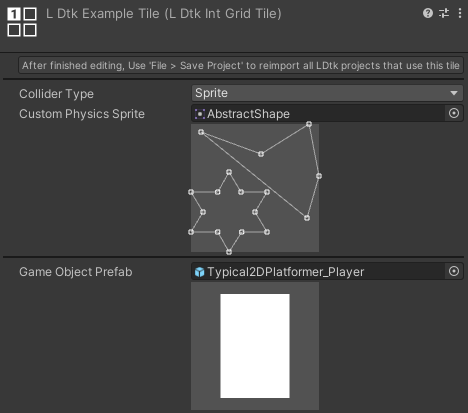
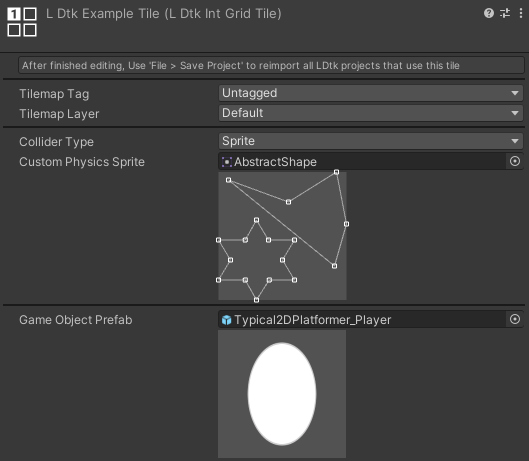
docs for new tag and layer field

Changed region(s): [[0.0, 0.1162, 0.9872, 1.0], [0.0, 0.0, 0.5983, 0.0872], [0.8974, 0.0, 0.9872, 0.0581]]

diff --git a/docs/api/LDtkUnity.LDtkIntGridTile.html b/docs/api/LDtkUnity.LDtkIntGridTile.html
@@ -327,7 +327,7 @@ Inherit from this for more custom functionality if required.</p>
   <div class="codewrapper">
       <pre>
           <code class="lang-csharp hljs">
-              [HelpURL(&quot;https://cammin.github.io/LDtkUnity/documentation/Topics/topic_IntGridTile.html&quot;)]
+              [HelpURL(&quot;https://cammin.github.io/LDtkToUnity/documentation/Topics/topic_IntGridTile.html&quot;)]
 [CreateAssetMenu(fileName = &quot;LDtkIntGridTile&quot;, menuName = &quot;LDtkIntGridTile&quot;, order = 335)]
 public class LDtkIntGridTile : TileBase
           </code>
@@ -354,7 +354,7 @@ public class LDtkIntGridTile : TileBase
     <a href="https://github.com/Cammin/LDtkUnity/new/develop/apiSpec/new?filename=LDtkUnity_LDtkIntGridTile__colliderType.md&amp;value=---%0Auid%3A%20LDtkUnity.LDtkIntGridTile._colliderType%0Asummary%3A%20'*You%20can%20override%20summary%20for%20the%20API%20here%20using%20*MARKDOWN*%20syntax'%0A---%0A%0A*Please%20type%20below%20more%20information%20about%20this%20API%3A*%0A%0A">Improve this Doc</a>
   </span>
   <span class="small pull-right mobile-hide">
-    <a href="https://github.com/Cammin/LDtkUnity/blob/develop/Assets/LDtkUnity/Runtime/UnityAssets/Assets/LDtkIntGridTile.cs/#L22">View Source</a>
+    <a href="https://github.com/Cammin/LDtkUnity/blob/develop/Assets/LDtkUnity/Runtime/UnityAssets/Assets/LDtkIntGridTile.cs/#L24">View Source</a>
   </span>
   <h4 id="LDtkUnity_LDtkIntGridTile__colliderType" data-uid="LDtkUnity.LDtkIntGridTile._colliderType">_colliderType</h4>
   <div class="markdown level1 summary"><p>The collider type used on the tilemap.</p>
@@ -396,7 +396,7 @@ protected Tile.ColliderType _colliderType</code></pre>
     <a href="https://github.com/Cammin/LDtkUnity/new/develop/apiSpec/new?filename=LDtkUnity_LDtkIntGridTile__customPhysicsSprite.md&amp;value=---%0Auid%3A%20LDtkUnity.LDtkIntGridTile._customPhysicsSprite%0Asummary%3A%20'*You%20can%20override%20summary%20for%20the%20API%20here%20using%20*MARKDOWN*%20syntax'%0A---%0A%0A*Please%20type%20below%20more%20information%20about%20this%20API%3A*%0A%0A">Improve this Doc</a>
   </span>
   <span class="small pull-right mobile-hide">
-    <a href="https://github.com/Cammin/LDtkUnity/blob/develop/Assets/LDtkUnity/Runtime/UnityAssets/Assets/LDtkIntGridTile.cs/#L27">View Source</a>
+    <a href="https://github.com/Cammin/LDtkUnity/blob/develop/Assets/LDtkUnity/Runtime/UnityAssets/Assets/LDtkIntGridTile.cs/#L29">View Source</a>
   </span>
   <h4 id="LDtkUnity_LDtkIntGridTile__customPhysicsSprite" data-uid="LDtkUnity.LDtkIntGridTile._customPhysicsSprite">_customPhysicsSprite</h4>
   <div class="markdown level1 summary"><p>The physics sprite used when <a class="xref" href="LDtkUnity.LDtkIntGridTile.html#LDtkUnity_LDtkIntGridTile__colliderType">_colliderType</a> is set to Sprite.</p>
@@ -438,7 +438,7 @@ protected Sprite _customPhysicsSprite</code></pre>
     <a href="https://github.com/Cammin/LDtkUnity/new/develop/apiSpec/new?filename=LDtkUnity_LDtkIntGridTile__gameObject.md&amp;value=---%0Auid%3A%20LDtkUnity.LDtkIntGridTile._gameObject%0Asummary%3A%20'*You%20can%20override%20summary%20for%20the%20API%20here%20using%20*MARKDOWN*%20syntax'%0A---%0A%0A*Please%20type%20below%20more%20information%20about%20this%20API%3A*%0A%0A">Improve this Doc</a>
   </span>
   <span class="small pull-right mobile-hide">
-    <a href="https://github.com/Cammin/LDtkUnity/blob/develop/Assets/LDtkUnity/Runtime/UnityAssets/Assets/LDtkIntGridTile.cs/#L32">View Source</a>
+    <a href="https://github.com/Cammin/LDtkUnity/blob/develop/Assets/LDtkUnity/Runtime/UnityAssets/Assets/LDtkIntGridTile.cs/#L44">View Source</a>
   </span>
   <h4 id="LDtkUnity_LDtkIntGridTile__gameObject" data-uid="LDtkUnity.LDtkIntGridTile._gameObject">_gameObject</h4>
   <div class="markdown level1 summary"><p>The optional GameObject to be placed at the tile's position.</p>
@@ -475,6 +475,90 @@ protected GameObject _gameObject</code></pre>
       </tr>
     </tbody>
   </table>
+  <span class="small pull-right mobile-hide">
+    <span class="divider">|</span>
+    <a href="https://github.com/Cammin/LDtkUnity/new/develop/apiSpec/new?filename=LDtkUnity_LDtkIntGridTile__tilemapLayerMask.md&amp;value=---%0Auid%3A%20LDtkUnity.LDtkIntGridTile._tilemapLayerMask%0Asummary%3A%20'*You%20can%20override%20summary%20for%20the%20API%20here%20using%20*MARKDOWN*%20syntax'%0A---%0A%0A*Please%20type%20below%20more%20information%20about%20this%20API%3A*%0A%0A">Improve this Doc</a>
+  </span>
+  <span class="small pull-right mobile-hide">
+    <a href="https://github.com/Cammin/LDtkUnity/blob/develop/Assets/LDtkUnity/Runtime/UnityAssets/Assets/LDtkIntGridTile.cs/#L39">View Source</a>
+  </span>
+  <h4 id="LDtkUnity_LDtkIntGridTile__tilemapLayerMask" data-uid="LDtkUnity.LDtkIntGridTile._tilemapLayerMask">_tilemapLayerMask</h4>
+  <div class="markdown level1 summary"><p>Sets the layer mask of this tile's tilemap.&quot;</p>
+</div>
+  <div class="markdown level1 conceptual"></div>
+  
+  
+  
+  <!-- DISABLED DECLARATION
+  <h5 class="decalaration">Declaration</h5>
+  -->
+  
+  
+  <!-- DISABLED CODE WRAPPER
+  <div class="codewrapper">
+    <pre><code class="lang-csharp hljs">[SerializeField]
+protected int _tilemapLayerMask</code></pre>
+  </div>
+  -->
+  
+  
+  <h5 class="fieldValue">Field Value</h5>
+  <table class="table table-bordered table-striped table-condensed">
+    <thead>
+      <tr>
+        <th>Type</th>
+        <th>Description</th>
+      </tr>
+    </thead>
+    <tbody>
+      <tr>
+        <td><span class="xref">System.Int32</span></td>
+        <td></td>
+      </tr>
+    </tbody>
+  </table>
+  <span class="small pull-right mobile-hide">
+    <span class="divider">|</span>
+    <a href="https://github.com/Cammin/LDtkUnity/new/develop/apiSpec/new?filename=LDtkUnity_LDtkIntGridTile__tilemapTag.md&amp;value=---%0Auid%3A%20LDtkUnity.LDtkIntGridTile._tilemapTag%0Asummary%3A%20'*You%20can%20override%20summary%20for%20the%20API%20here%20using%20*MARKDOWN*%20syntax'%0A---%0A%0A*Please%20type%20below%20more%20information%20about%20this%20API%3A*%0A%0A">Improve this Doc</a>
+  </span>
+  <span class="small pull-right mobile-hide">
+    <a href="https://github.com/Cammin/LDtkUnity/blob/develop/Assets/LDtkUnity/Runtime/UnityAssets/Assets/LDtkIntGridTile.cs/#L34">View Source</a>
+  </span>
+  <h4 id="LDtkUnity_LDtkIntGridTile__tilemapTag" data-uid="LDtkUnity.LDtkIntGridTile._tilemapTag">_tilemapTag</h4>
+  <div class="markdown level1 summary"><p>Sets the tag of this tile's tilemap.&quot;</p>
+</div>
+  <div class="markdown level1 conceptual"></div>
+  
+  
+  
+  <!-- DISABLED DECLARATION
+  <h5 class="decalaration">Declaration</h5>
+  -->
+  
+  
+  <!-- DISABLED CODE WRAPPER
+  <div class="codewrapper">
+    <pre><code class="lang-csharp hljs">[SerializeField]
+protected string _tilemapTag</code></pre>
+  </div>
+  -->
+  
+  
+  <h5 class="fieldValue">Field Value</h5>
+  <table class="table table-bordered table-striped table-condensed">
+    <thead>
+      <tr>
+        <th>Type</th>
+        <th>Description</th>
+      </tr>
+    </thead>
+    <tbody>
+      <tr>
+        <td><span class="xref">System.String</span></td>
+        <td></td>
+      </tr>
+    </tbody>
+  </table>
   <h3 id="methods">Methods
   </h3>
   <span class="small pull-right mobile-hide">
@@ -482,7 +566,7 @@ protected GameObject _gameObject</code></pre>
     <a href="https://github.com/Cammin/LDtkUnity/new/develop/apiSpec/new?filename=LDtkUnity_LDtkIntGridTile_GetTileData_UnityEngine_Vector3Int_UnityEngine_Tilemaps_ITilemap_UnityEngine_Tilemaps_TileData__.md&amp;value=---%0Auid%3A%20LDtkUnity.LDtkIntGridTile.GetTileData(UnityEngine.Vector3Int%2CUnityEngine.Tilemaps.ITilemap%2CUnityEngine.Tilemaps.TileData%40)%0Asummary%3A%20'*You%20can%20override%20summary%20for%20the%20API%20here%20using%20*MARKDOWN*%20syntax'%0A---%0A%0A*Please%20type%20below%20more%20information%20about%20this%20API%3A*%0A%0A">Improve this Doc</a>
   </span>
   <span class="small pull-right mobile-hide">
-    <a href="https://github.com/Cammin/LDtkUnity/blob/develop/Assets/LDtkUnity/Runtime/UnityAssets/Assets/LDtkIntGridTile.cs/#L46">View Source</a>
+    <a href="https://github.com/Cammin/LDtkUnity/blob/develop/Assets/LDtkUnity/Runtime/UnityAssets/Assets/LDtkIntGridTile.cs/#L61">View Source</a>
   </span>
   <a id="LDtkUnity_LDtkIntGridTile_GetTileData_" data-uid="LDtkUnity.LDtkIntGridTile.GetTileData*"></a>
   <h4 id="LDtkUnity_LDtkIntGridTile_GetTileData_UnityEngine_Vector3Int_UnityEngine_Tilemaps_ITilemap_UnityEngine_Tilemaps_TileData__" data-uid="LDtkUnity.LDtkIntGridTile.GetTileData(UnityEngine.Vector3Int,UnityEngine.Tilemaps.ITilemap,UnityEngine.Tilemaps.TileData@)">GetTileData(Vector3Int, ITilemap, ref TileData)</h4>
@@ -542,7 +626,7 @@ protected GameObject _gameObject</code></pre>
     <a href="https://github.com/Cammin/LDtkUnity/new/develop/apiSpec/new?filename=LDtkUnity_LDtkIntGridTile_StartUp_UnityEngine_Vector3Int_UnityEngine_Tilemaps_ITilemap_UnityEngine_GameObject_.md&amp;value=---%0Auid%3A%20LDtkUnity.LDtkIntGridTile.StartUp(UnityEngine.Vector3Int%2CUnityEngine.Tilemaps.ITilemap%2CUnityEngine.GameObject)%0Asummary%3A%20'*You%20can%20override%20summary%20for%20the%20API%20here%20using%20*MARKDOWN*%20syntax'%0A---%0A%0A*Please%20type%20below%20more%20information%20about%20this%20API%3A*%0A%0A">Improve this Doc</a>
   </span>
   <span class="small pull-right mobile-hide">
-    <a href="https://github.com/Cammin/LDtkUnity/blob/develop/Assets/LDtkUnity/Runtime/UnityAssets/Assets/LDtkIntGridTile.cs/#L69">View Source</a>
+    <a href="https://github.com/Cammin/LDtkUnity/blob/develop/Assets/LDtkUnity/Runtime/UnityAssets/Assets/LDtkIntGridTile.cs/#L84">View Source</a>
   </span>
   <a id="LDtkUnity_LDtkIntGridTile_StartUp_" data-uid="LDtkUnity.LDtkIntGridTile.StartUp*"></a>
   <h4 id="LDtkUnity_LDtkIntGridTile_StartUp_UnityEngine_Vector3Int_UnityEngine_Tilemaps_ITilemap_UnityEngine_GameObject_" data-uid="LDtkUnity.LDtkIntGridTile.StartUp(UnityEngine.Vector3Int,UnityEngine.Tilemaps.ITilemap,UnityEngine.GameObject)">StartUp(Vector3Int, ITilemap, GameObject)</h4>

diff --git a/docs/documentation/Topics/topic_IntGridTile.html b/docs/documentation/Topics/topic_IntGridTile.html
@@ -73,9 +73,14 @@
 <h1 id="intgrid-tile">IntGrid Tile</h1>
 
 <p><a href="../../api/LDtkUnity.LDtkIntGridTile.html"><em><strong>Scripting Reference</strong></em></a></p>
-<p>In the importer's <a href="../Importer/topic_Section_IntGrids.html"><strong>IntGrid section</strong></a>, you can assign Int Grid Tiles, which has options for custom collision, rendering colors, and GameObjects.</p>
+<p>In the importer's <a href="../Importer/topic_Section_IntGrids.html"><strong>IntGrid section</strong></a>, you can assign Int Grid Tiles, which has options for tags, layers, custom collision, rendering colors, and GameObjects.</p>
 <p>Make some at <code>Assets &gt; Create &gt; LDtkIntGridTile</code></p>
 <p><img src="../../images/img_Unity_IntGridTile.png" alt="Level Inspector"></p>
+<h3 id="tilemap-taglayer">Tilemap Tag/Layer</h3>
+<p>Sets the tag/layer of this tile's tilemap GameObject in the build process.<br>
+For an IntGrid layer, if other tile assets have <strong>either</strong> a differing tag or layer, then they will be split into separate tilemaps.
+This can allow for customized grouping of certain IntGrid values in Tilemaps.<br>
+Optional; Use if customizing tags/layers is necessary. Otherwise, leave as <code>Untagged</code>/<code>Default</code>.</p>
 <h3 id="collider-type">Collider Type</h3>
 <ul>
 <li>None: No collision.

diff --git a/docs/api/LDtkUnity.LDtkLevelFile.html b/docs/api/LDtkUnity.LDtkLevelFile.html
@@ -319,7 +319,7 @@ Available when saving levels as separate files in LDtk. Reference this to access
   <div class="codewrapper">
       <pre>
           <code class="lang-csharp hljs">
-              [HelpURL(&quot;https://cammin.github.io/LDtkUnity/documentation/Topics/topic_LevelFile.html&quot;)]
+              [HelpURL(&quot;https://cammin.github.io/LDtkToUnity/documentation/Topics/topic_LevelFile.html&quot;)]
 public class LDtkLevelFile : LDtkJsonFile&lt;Level&gt;, ILDtkJsonFile
           </code>
       </pre>

diff --git a/docs/api/LDtkUnity.LDtkComponentProject.html b/docs/api/LDtkUnity.LDtkComponentProject.html
@@ -517,7 +517,7 @@
   <div class="codewrapper">
       <pre>
           <code class="lang-csharp hljs">
-              [HelpURL(&quot;https://cammin.github.io/LDtkUnity/api/LDtkUnity.LDtkComponentProject.html&quot;)]
+              [HelpURL(&quot;https://cammin.github.io/LDtkToUnity/api/LDtkUnity.LDtkComponentProject.html&quot;)]
 [AddComponentMenu(&quot;LDtk/LDtk Project Data&quot;)]
 public class LDtkComponentProject : MonoBehaviour
           </code>

diff --git a/docs/api/LDtkUnity.LDtkProjectFile.html b/docs/api/LDtkUnity.LDtkProjectFile.html
@@ -318,7 +318,7 @@
   <div class="codewrapper">
       <pre>
           <code class="lang-csharp hljs">
-              [HelpURL(&quot;https://cammin.github.io/LDtkUnity/documentation/Topics/topic_ProjectFile.html&quot;)]
+              [HelpURL(&quot;https://cammin.github.io/LDtkToUnity/documentation/Topics/topic_ProjectFile.html&quot;)]
 public class LDtkProjectFile : LDtkJsonFile&lt;LdtkJson&gt;, ILDtkJsonFile
           </code>
       </pre>

diff --git a/docs/api/LDtkUnity.LDtkArtifactAssets.html b/docs/api/LDtkUnity.LDtkArtifactAssets.html
@@ -315,7 +315,7 @@
   <div class="codewrapper">
       <pre>
           <code class="lang-csharp hljs">
-              [HelpURL(&quot;https://cammin.github.io/LDtkUnity/documentation/Topics/topic_ArtifactAssets.html&quot;)]
+              [HelpURL(&quot;https://cammin.github.io/LDtkToUnity/documentation/Topics/topic_ArtifactAssets.html&quot;)]
 public class LDtkArtifactAssets : ScriptableObject
           </code>
       </pre>

diff --git a/docs/api/LDtkUnity.LDtkFields.html b/docs/api/LDtkUnity.LDtkFields.html
@@ -519,7 +519,7 @@
           <code class="lang-csharp hljs">
               [DisallowMultipleComponent]
 [AddComponentMenu(&quot;LDtk/LDtk Fields&quot;)]
-[HelpURL(&quot;https://cammin.github.io/LDtkUnity/documentation/Topics/topic_Fields.html&quot;)]
+[HelpURL(&quot;https://cammin.github.io/LDtkToUnity/documentation/Topics/topic_Fields.html&quot;)]
 public class LDtkFields : MonoBehaviour
           </code>
       </pre>

diff --git a/DocFX/documentation/Topics/topic_IntGridTile.md b/DocFX/documentation/Topics/topic_IntGridTile.md
@@ -1,11 +1,17 @@
 # IntGrid Tile
 [_**Scripting Reference**_](../../api/LDtkUnity.LDtkIntGridTile.yml)  
 
-In the importer's [**IntGrid section**](../Importer/topic_Section_IntGrids.md), you can assign Int Grid Tiles, which has options for custom collision, rendering colors, and GameObjects.
+In the importer's [**IntGrid section**](../Importer/topic_Section_IntGrids.md), you can assign Int Grid Tiles, which has options for tags, layers, custom collision, rendering colors, and GameObjects.
 
 Make some at `Assets > Create > LDtkIntGridTile`
 
 ![Level Inspector](../../images/img_Unity_IntGridTile.png)
+
+### Tilemap Tag/Layer
+Sets the tag/layer of this tile's tilemap GameObject in the build process.  
+For an IntGrid layer, if other tile assets have **either** a differing tag or layer, then they will be split into separate tilemaps.
+This can allow for customized grouping of certain IntGrid values in Tilemaps.  
+Optional; Use if customizing tags/layers is necessary. Otherwise, leave as `Untagged`/`Default`.
 
 ### Collider Type
 - None: No collision. 
